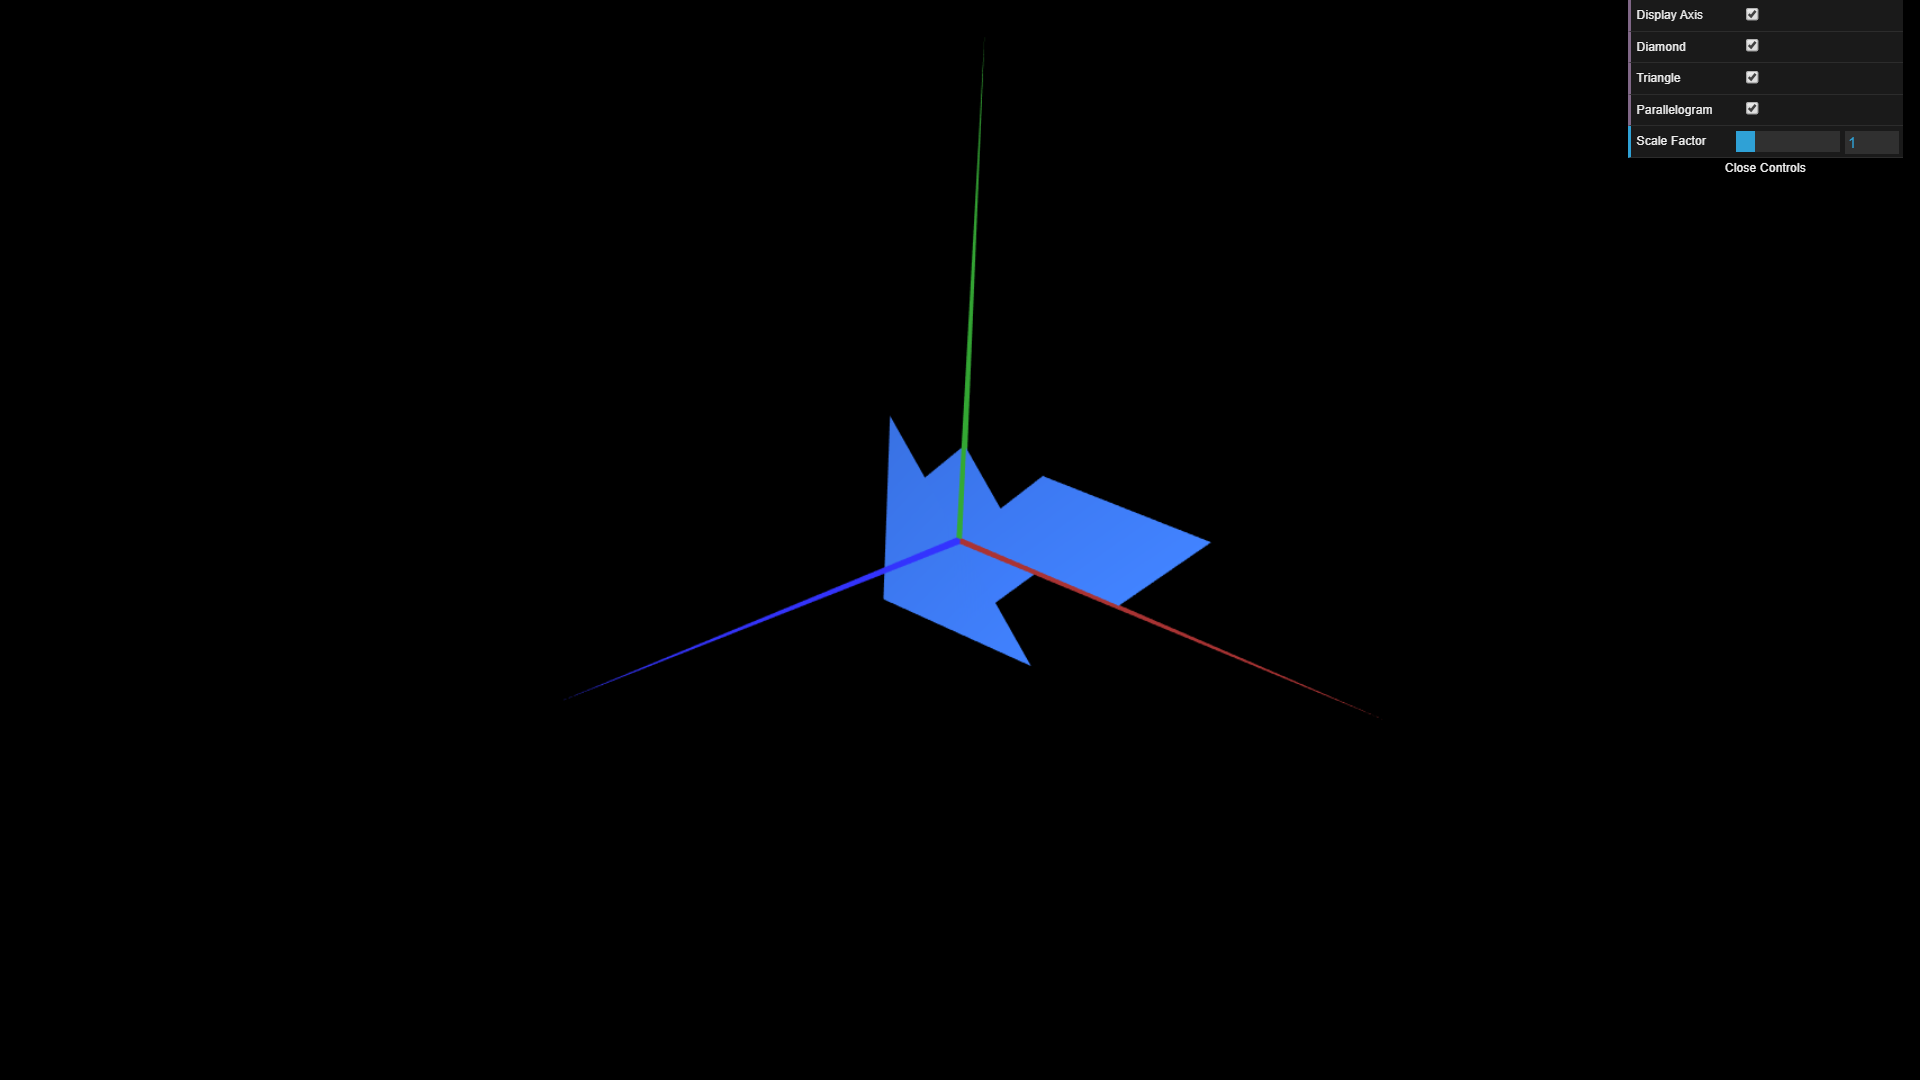
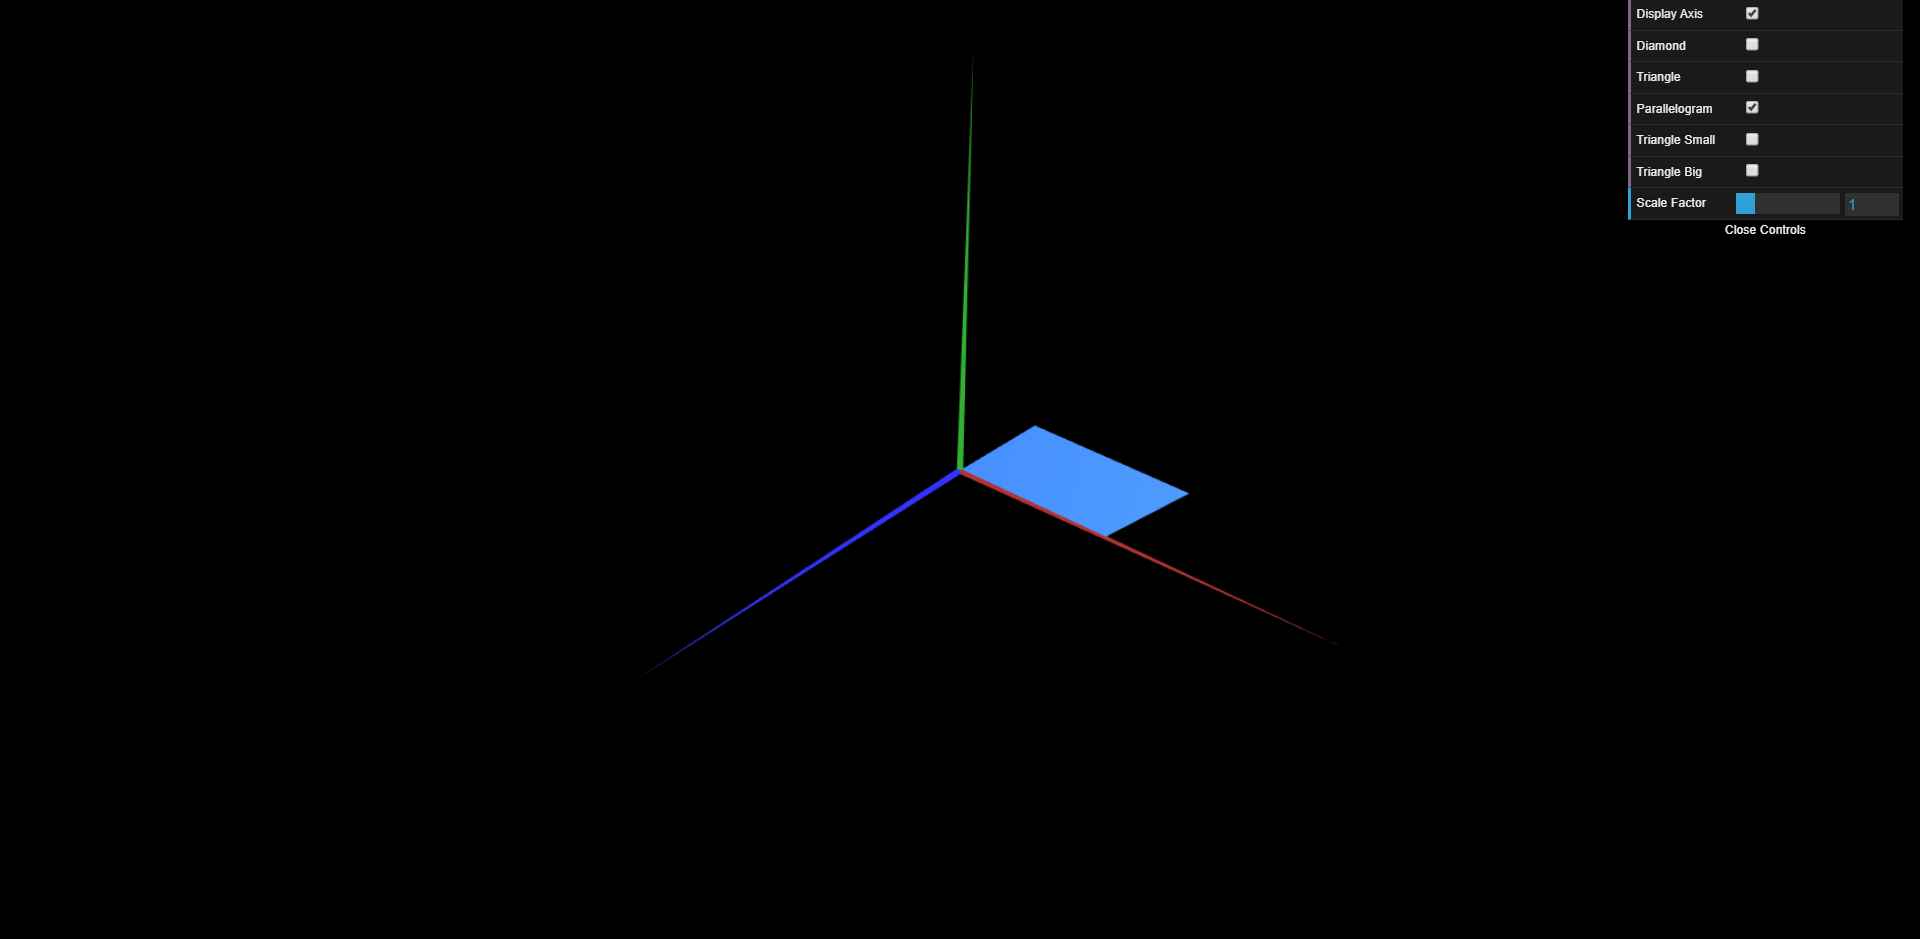
TP1 done

Changed region(s): [[0.375, 0.1544, 0.6875, 0.6486], [0.8438, 0.0, 1.0, 0.2471], [0.3438, 0.5868, 0.375, 0.6177]]

diff --git a/Praticas/TP1/MyScene.js b/Praticas/TP1/MyScene.js
@@ -24,12 +24,16 @@ class MyScene extends CGFscene {
         this.diamond = new MyDiamond(this);
         this.triangle = new MyTriangle(this);
         this.parallelogram = new MyParallelogram(this);
+        this.triangleSmall = new MyTriangleSmall(this);
+        this.triangleBig = new MyTriangleBig(this);
 
         //Objects connected to MyInterface
         this.displayAxis = true;
         this.displayDiamond = true;
         this.displayTriangle = true;
         this.displayParallelogram = true;
+        this.displayTriangleSmall = true;
+        this.displayTriangleBig = true;
         this.scaleFactor = 1;
     }
     initLights() {
@@ -81,6 +85,12 @@ class MyScene extends CGFscene {
 
         if (this.displayParallelogram)
             this.parallelogram.display();
+
+        if (this.displayTriangleSmall)
+            this.triangleSmall.display();
+
+        if (this.displayTriangleBig)
+            this.triangleBig.display();
 
         // ---- END Primitive drawing section
     }

diff --git a/Praticas/TP1/main.js b/Praticas/TP1/main.js
@@ -2,7 +2,7 @@
 include=function(){function f(){var a=this.readyState;(!a||/ded|te/.test(a))&&(c--,!c&&e&&d())}var a=arguments,b=document,c=a.length,d=a[c-1],e=d.call;e&&c--;for(var g,h=0;c>h;h++)g=b.createElement("script"),g.src=arguments[h],g.async=!0,g.onload=g.onerror=g.onreadystatechange=f,(b.head||b.getElementsByTagName("head")[0]).appendChild(g)};
 serialInclude=function(a){var b=console,c=serialInclude.l;if(a.length>0)c.splice(0,0,a);else b.log("Done!");if(c.length>0){if(c[0].length>1){var d=c[0].splice(0,1);b.log("Loading "+d+"...");include(d,function(){serialInclude([]);});}else{var e=c[0][0];c.splice(0,1);e.call();};}else b.log("Finished.");};serialInclude.l=new Array();
 
-serialInclude(['../lib/CGF.js', 'MyDiamond.js','MyParallelogram.js','MyTriangle.js','MyScene.js', 'MyInterface.js',
+serialInclude(['../lib/CGF.js', 'MyDiamond.js','MyParallelogram.js','MyTriangle.js','MyTriangleBig.js','MyTriangleSmall.js','MyScene.js', 'MyInterface.js',
 
 main=function()
 {

diff --git a/Praticas/TP1/MyInterface.js b/Praticas/TP1/MyInterface.js
@@ -28,6 +28,12 @@ class MyInterface extends CGFinterface {
         //Checkbox element in GUI
         this.gui.add(this.scene, 'displayParallelogram').name('Parallelogram');
 
+        //Checkbox element in GUI
+        this.gui.add(this.scene, 'displayTriangleSmall').name('Triangle Small');
+        
+        //Checkbox element in GUI
+        this.gui.add(this.scene, 'displayTriangleBig').name('Triangle Big');
+
         //Slider element in GUI
         this.gui.add(this.scene, 'scaleFactor', 0.1, 5).name('Scale Factor');
 
